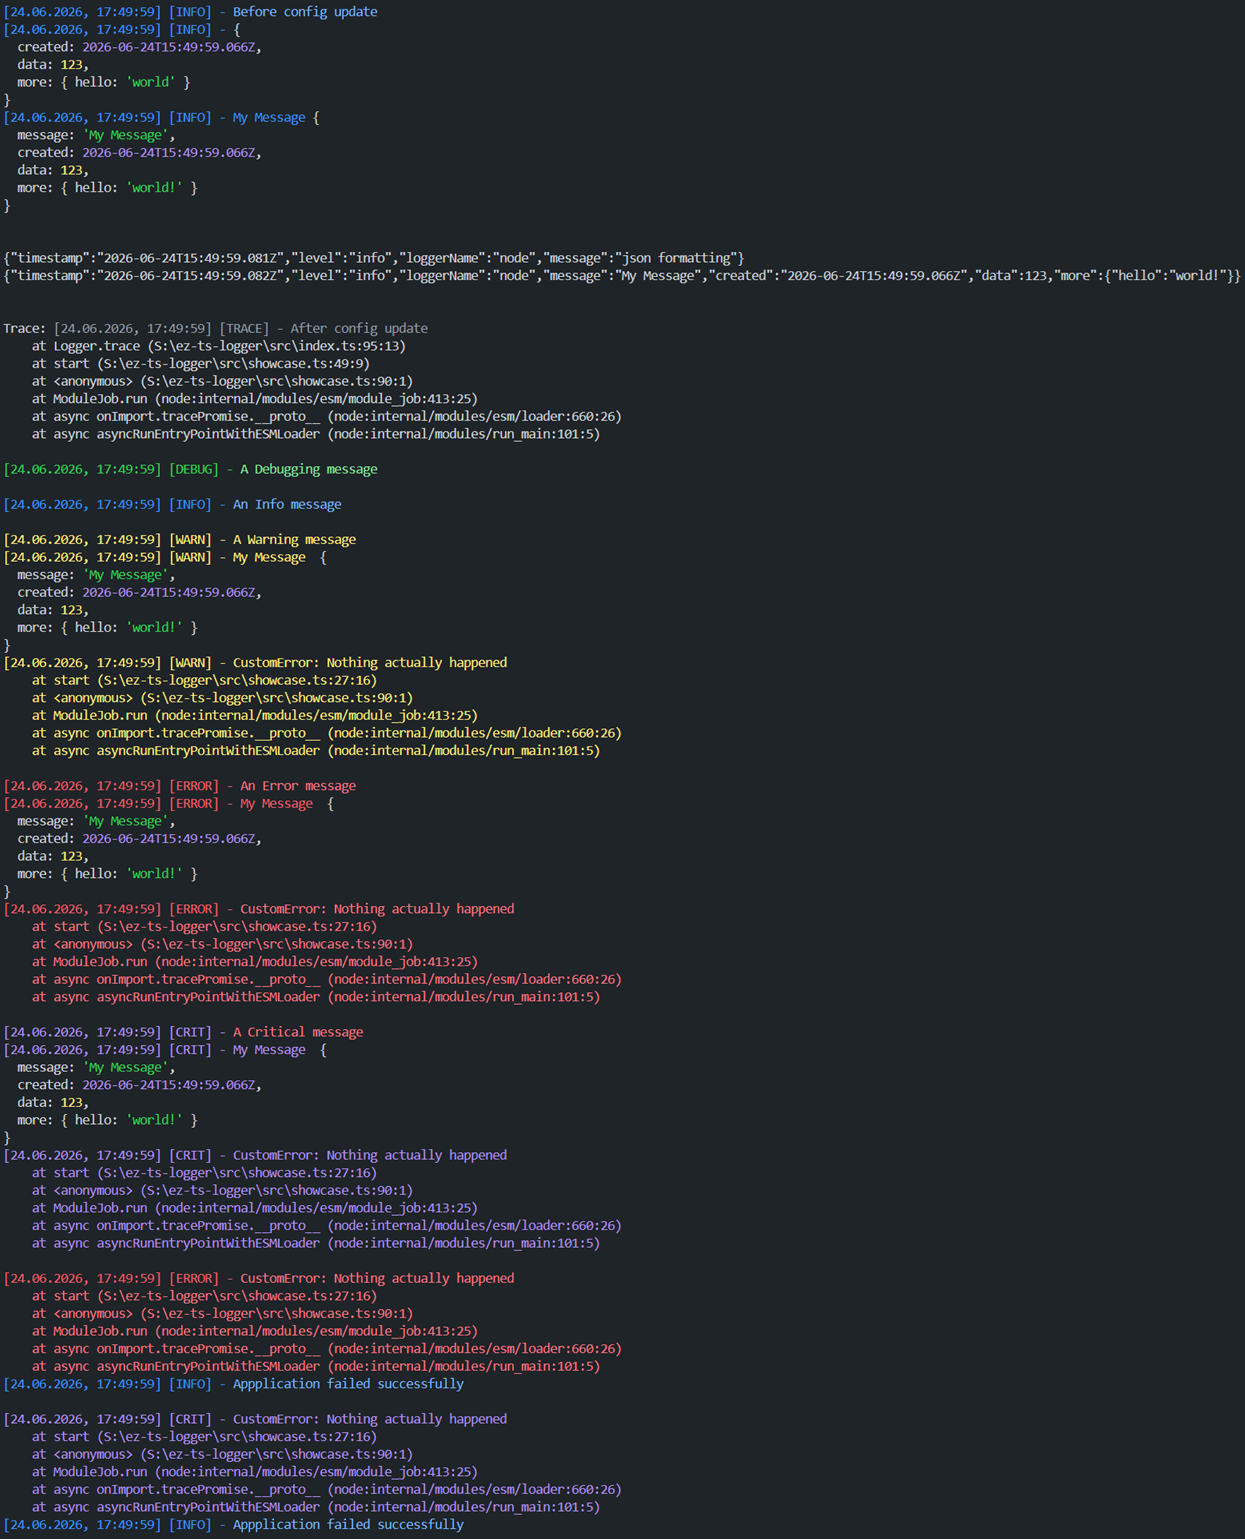
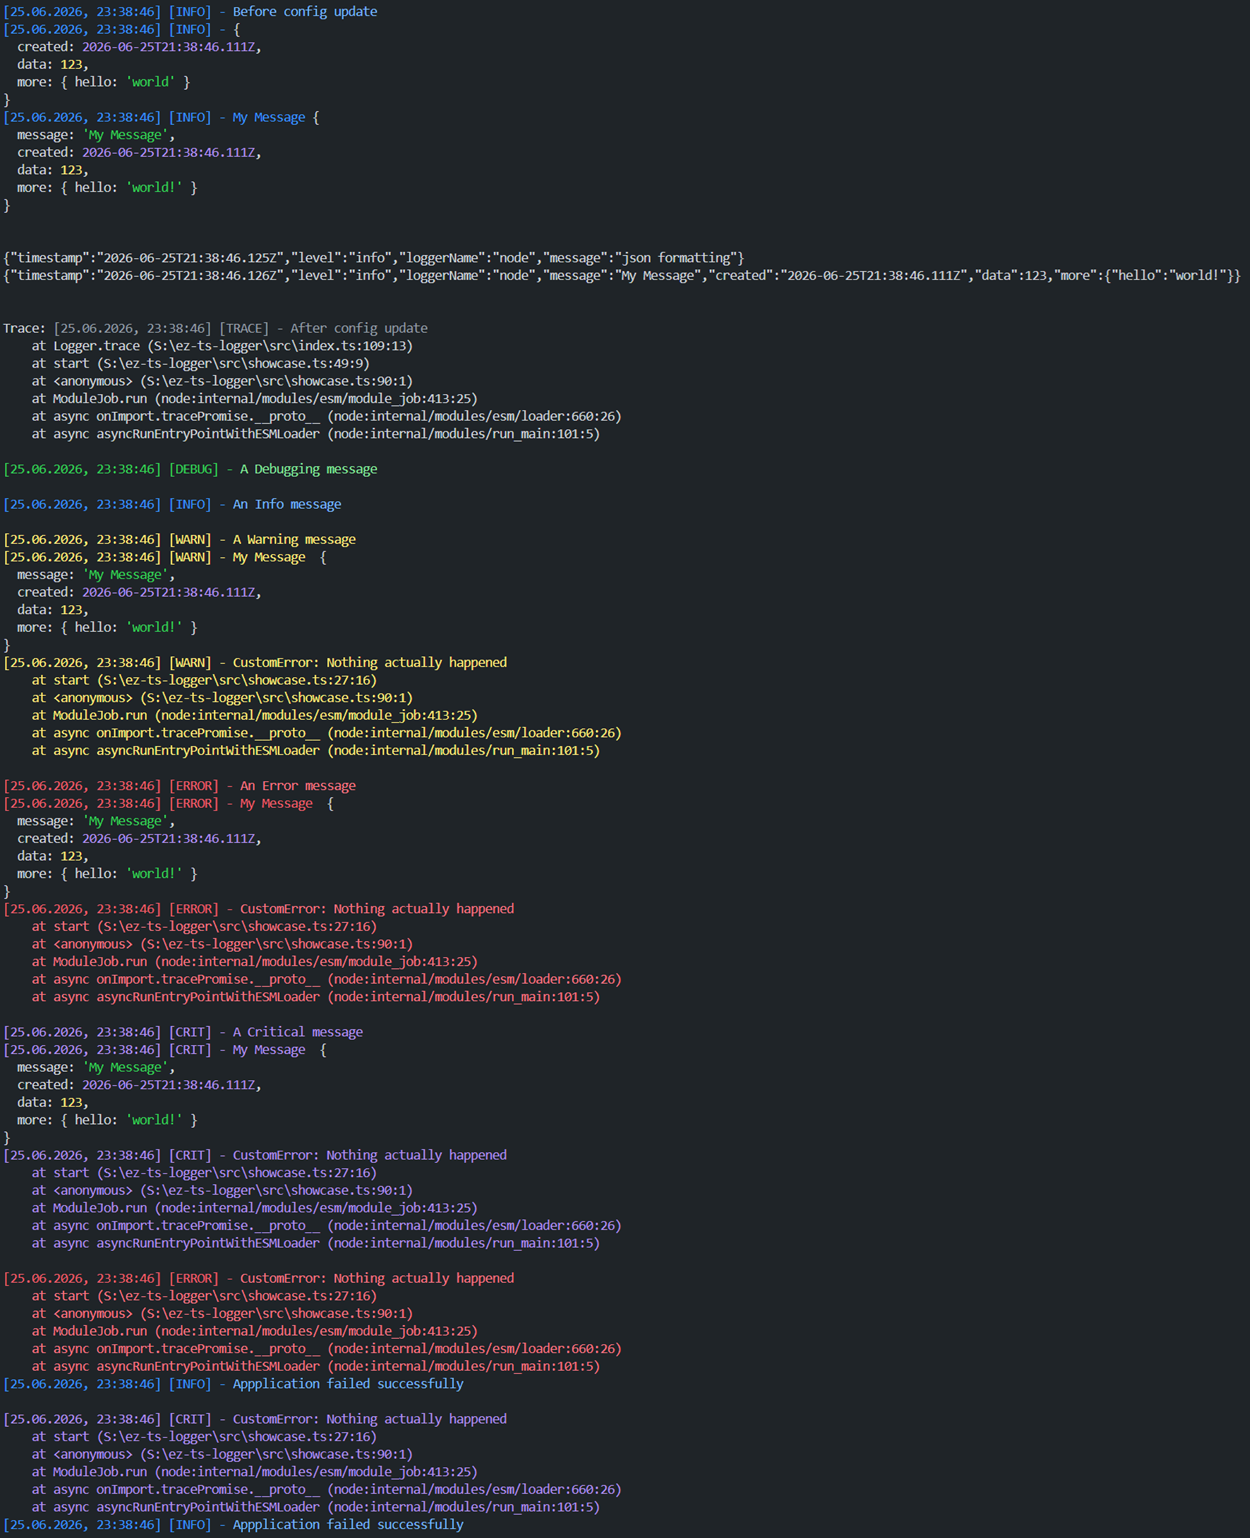
fixed crit color

Changed region(s): [[0.0, 0.156, 1.0, 0.9987], [0.0, 0.0, 0.3052, 0.1248]]

diff --git a/src/index.ts b/src/index.ts
@@ -223,7 +223,7 @@ export class Logger {
 					chalk.magenta(
 						`[${new Date().toLocaleString()}] [CRIT] -${typeof args !== 'string' && args.message ? ` ${args.message} ` : ''}`,
 					),
-					typeof args === 'string' ? chalk.redBright(args) : args,
+					typeof args === 'string' ? chalk.magentaBright(args) : args,
 				)
 	}
 